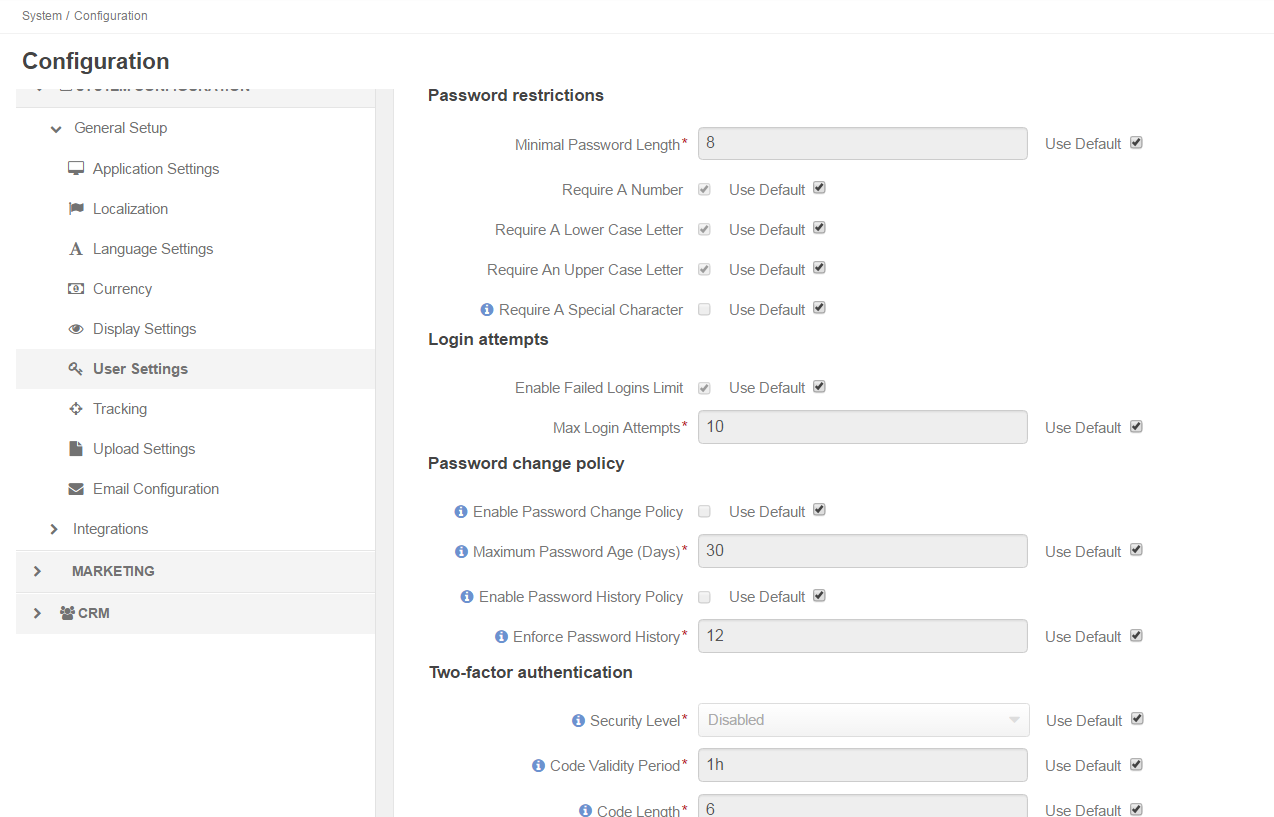
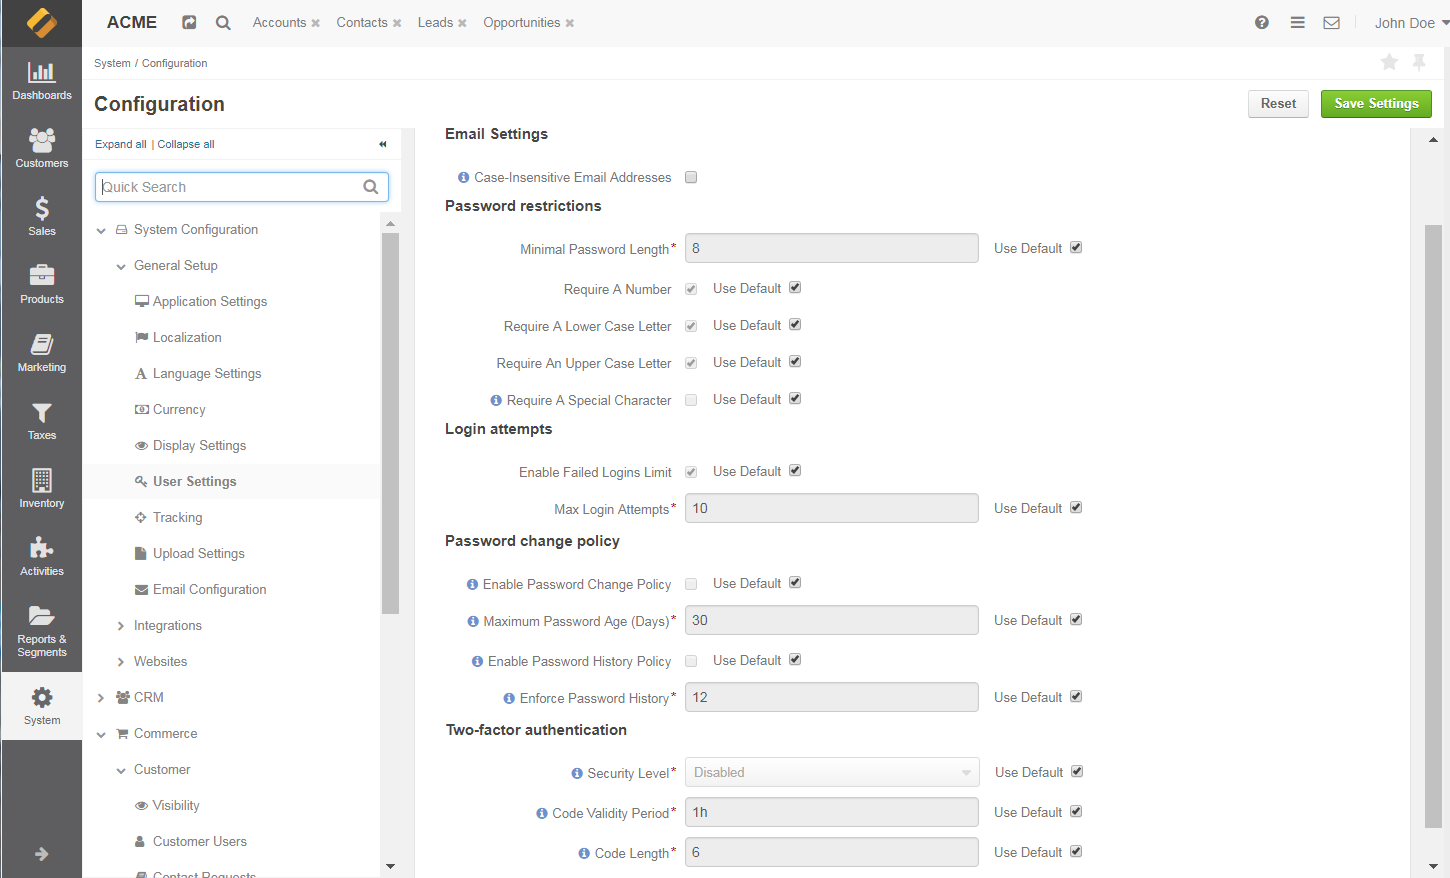
DOC-891+909: Update Config Options (#19843)
* DOC-891: Updated Customer User Config Options (Inc Case-Sensitive Emails)

* DOC-891+909: Updated Customer User Config Options (Inc Case-Sensitive Emails)

* DOC-891+909: Updated Customer User Config Options (Inc Case-Sensitive Emails)

diff --git a/commerce/admin_guide/landing_system_configuration/general_setup_sysconfig/user_settings.rst b/commerce/admin_guide/landing_system_configuration/general_setup_sysconfig/user_settings.rst
@@ -1,4 +1,3 @@
-
 .. _admin-configuration-user-settings:
 
 User Settings
@@ -15,13 +14,14 @@ To apply user-related options in your |oro_application| instance:
    .. image:: /admin_guide/img/configuration/user.png
 
 
-Configure Password Restrictions
--------------------------------
+Configure Email Settings and Password Restrictions
+--------------------------------------------------
 
 .. csv-table::
   :header: "Option", "Description"
   :widths: 10, 30 
 
+  "**Case-Insensitive Email Addresses**","If this option is enabled, the letter case is ignored when comparing email addresses. For example, john.doe@example.com and John.Doe@example.com are treated equally. By default, the option is disabled."
   "**MinimalPassword Length**","Enter the number of characters to define the length of the password. By default, 8 is specified"
   "**Require a Number**","Specify whether the password should contain a number. By default, the option is enabled."
   "**Require A Lower Case Letter**","Specify whether the password should contain a lower case letter. By default, the option is enabled"
@@ -35,7 +35,7 @@ Configure Login Attempts
   :header: "Option", "Description" 
   :widths: 10, 30 
 
-  "**Enable Failed logins Limit**","Specify whether you wish to enable failed logins limit. By default, the option is enabled."
+  "**Enable Failed Logins Limit**","Specify whether you wish to enable failed logins limit. By default, the option is enabled."
   "**Max Login Attempts**","Specify the maximum number of failed login attempts. By default, the number is set to 10."
 
 Configure Password Change Policy

diff --git a/commerce/admin_guide/landing_system_configuration/general_setup_sysconfig/index.rst b/commerce/admin_guide/landing_system_configuration/general_setup_sysconfig/index.rst
@@ -10,7 +10,7 @@ Learn how to configure localization options, currency and tracking, as well and 
 * :ref:`Language Settings <sys--config--sysconfig--general-setup--language-settings>`
 * :ref:`Currency <sys--config--sysconfig--general-setup--currency>`
 * :ref:`Display Settings <configuration--general-setup--display-settings>`
-* User Settings
+* :ref:`User Settings <admin-configuration-user-settings>`
 * :ref:`Tracking <admin-configuration-tracking-settings>`
 * :ref:`Upload Settings <configuration-guide--system-configuration--general-setup-sysconfig--upload-settings>`
 * :ref:`Email Configuration <user-guide-email-admin>`
